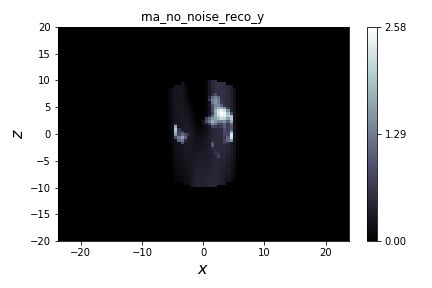
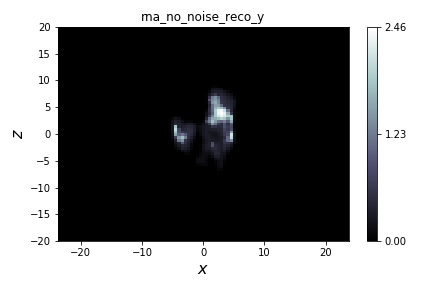
add recos of balls

Changed region(s): [[0.3912, 0.2812, 0.5718, 0.6562], [0.4815, 0.2812, 0.5718, 0.4375], [0.9028, 0.0625, 0.9329, 0.125]]

diff --git a/odl/contrib/etomo/examples/odlworkshop/kaczmarz/balls_dose_5000.py b/odl/contrib/etomo/examples/odlworkshop/kaczmarz/balls_dose_5000.py
@@ -10,8 +10,8 @@ from odl.contrib import etomo
 from odl.contrib.mrc import FileReaderMRC
 
 # Read phantom and data.
-dir_path = os.path.abspath('/home/zickert/TEM_reco_project/Data/One_particle_RNA/odlworkshop/No_noise')
-file_path_phantom = os.path.join(dir_path, 'rna_phantom.mrc')
+dir_path = os.path.abspath('/home/zickert/TEM_reco_project/Data/Balls/odlworkshop/gain_5000')
+file_path_phantom = os.path.join(dir_path, 'balls_phantom.mrc')
 file_path_tiltseries = os.path.join(dir_path, 'tiltseries.mrc')
 
 with FileReaderMRC(file_path_phantom) as phantom_reader:
@@ -36,8 +36,8 @@ sigma = e_mass * e_charge / (wave_number * planck_bar ** 2)
 abs_phase_ratio = 0.1
 magic_factor = 1
 obj_magnitude = magic_factor * sigma / rescale_factor
-regpar = 1e-3
-gamma_H1 = 0.0
+regpar = 2e3
+gamma_H1 = 0.9
 num_angles = 61
 num_angles_per_block = 1
 num_cycles = 3
@@ -58,18 +58,21 @@ defocus = 3e-6  # m
 det_size = 16e-6  # m
 
 # Reconstruction space: discretized functions on a cuboid
-reco_space = odl.uniform_discr(min_pt=[-rescale_factor*95e-9/4,
-                                       -rescale_factor*100e-9/4,
-                                       -rescale_factor*80e-9/4],
-                               max_pt=[rescale_factor*95e-9/4,
-                                       rescale_factor*100e-9/4,
-                                       rescale_factor*80e-9/4],
-                               shape=[95, 100, 80], dtype='float64')
+reco_space = odl.uniform_discr(min_pt=[-rescale_factor*210e-9/4,
+                                       -rescale_factor*250e-9/4,
+                                       -rescale_factor*40e-9/4],
+                               max_pt=[rescale_factor*210e-9/4,
+                                       rescale_factor*250e-9/4,
+                                       rescale_factor*40e-9/4],
+                               shape=[210, 250, 40], dtype='float64')
 # Make a 3d single-axis parallel beam geometry with flat detector
 # Angles: uniformly spaced, n = 180, min = 0, max = pi
 angle_partition = odl.uniform_partition(-np.pi/3, np.pi/3, num_angles)
-detector_partition = odl.uniform_partition([-rescale_factor*det_size/M * 200/2] * 2,
-                                           [rescale_factor*det_size/M * 200/2] * 2, [200] * 2)
+detector_partition = odl.uniform_partition([-rescale_factor*det_size/M * 210/2,
+                                            -rescale_factor*det_size/M * 250/2],
+                                           [rescale_factor*det_size/M * 200/2,
+                                            rescale_factor*det_size/M * 250/2],
+                                            [210, 250])
 
 # The x-axis is the tilt-axis.
 geometry = odl.tomo.Parallel3dAxisGeometry(angle_partition, detector_partition,
@@ -122,8 +125,8 @@ data = etomo.buffer_correction(data)
 data_from_this_model = etomo.buffer_correction(data_from_this_model)
 
 # Plot corrected data
-data_from_this_model.show(coords=[0, [-2e1, 2e1], [-2e1, 2e1]])
-data.show(coords=[0, [-2e1, 2e1], [-2e1, 2e1]])
+data_from_this_model.show(coords=[0, None, None])
+data.show(coords=[0, None, None])
 
 # Renormalize data so that it matches "data_from_this_model"
 data *= np.mean(data_from_this_model.asarray())
@@ -145,7 +148,10 @@ F_post = etomo.make_imageFormationOp(ray_trafo_block.range, wave_number,
                                      obj_magnitude=obj_magnitude,
                                      abs_phase_ratio=abs_phase_ratio)
 
-F_pre = odl.MultiplyOperator(mask, reco_space, reco_space)
+#F_pre = odl.MultiplyOperator(mask, reco_space, reco_space)
+# we skip the mask for the Balls phantom
+F_pre = odl.IdentityOperator(reco_space)
+
 
 get_op = etomo.make_Op_blocks(kaczmarz_plan, ray_trafo, Op_pre=F_pre,
                               Op_post=F_post)
@@ -171,14 +177,14 @@ etomo.kaczmarz_SART_method(get_proj_op, reco, get_data, len(kaczmarz_plan),
 # etomo.plot_3d_ortho_slices(reco)
 
 # Save planes of reco (orthogonal to x,y and z axes)
-nn_reco_fig_x = reco.show(title='rna_no_noise_reco_x',
-                          coords=[0, None, None])
-nn_reco_fig_x.savefig('rna_no_noise_reco_x')
+dose_5000_reco_fig_x = reco.show(title='balls_dose_5000_reco_x',
+                                 coords=[0, None, None])
+dose_5000_reco_fig_x.savefig('balls_dose_5000_reco_x')
 
-nn_reco_fig_y = reco.show(title='rna_no_noise_reco_y',
-                          coords=[None, 0, None])
-nn_reco_fig_y.savefig('rna_no_noise_reco_y')
+dose_5000_reco_fig_y = reco.show(title='balls_dose_5000_reco_y',
+                                 coords=[None, 0, None])
+dose_5000_reco_fig_y.savefig('balls_dose_5000_reco_y')
 
-nn_reco_fig_z = reco.show(title='rna_no_noise_reco_z',
-                          coords=[None, None, 0])
-nn_reco_fig_z.savefig('rna_no_noise_reco_z')
+dose_5000_reco_fig_z = reco.show(title='balls_dose_5000_reco_z',
+                                 coords=[None, None, 0])
+dose_5000_reco_fig_z.savefig('balls_dose_5000_reco_z')

diff --git a/odl/contrib/etomo/examples/odlworkshop/kaczmarz/balls_No_noise.py b/odl/contrib/etomo/examples/odlworkshop/kaczmarz/balls_No_noise.py
@@ -10,8 +10,8 @@ from odl.contrib import etomo
 from odl.contrib.mrc import FileReaderMRC
 
 # Read phantom and data.
-dir_path = os.path.abspath('/home/zickert/TEM_reco_project/Data/One_particle_RNA/odlworkshop/No_noise')
-file_path_phantom = os.path.join(dir_path, 'rna_phantom.mrc')
+dir_path = os.path.abspath('/home/zickert/TEM_reco_project/Data/Balls/odlworkshop/No_noise')
+file_path_phantom = os.path.join(dir_path, 'balls_phantom.mrc')
 file_path_tiltseries = os.path.join(dir_path, 'tiltseries.mrc')
 
 with FileReaderMRC(file_path_phantom) as phantom_reader:
@@ -58,18 +58,21 @@ defocus = 3e-6  # m
 det_size = 16e-6  # m
 
 # Reconstruction space: discretized functions on a cuboid
-reco_space = odl.uniform_discr(min_pt=[-rescale_factor*95e-9/4,
-                                       -rescale_factor*100e-9/4,
-                                       -rescale_factor*80e-9/4],
-                               max_pt=[rescale_factor*95e-9/4,
-                                       rescale_factor*100e-9/4,
-                                       rescale_factor*80e-9/4],
-                               shape=[95, 100, 80], dtype='float64')
+reco_space = odl.uniform_discr(min_pt=[-rescale_factor*210e-9/4,
+                                       -rescale_factor*250e-9/4,
+                                       -rescale_factor*40e-9/4],
+                               max_pt=[rescale_factor*210e-9/4,
+                                       rescale_factor*250e-9/4,
+                                       rescale_factor*40e-9/4],
+                               shape=[210, 250, 40], dtype='float64')
 # Make a 3d single-axis parallel beam geometry with flat detector
 # Angles: uniformly spaced, n = 180, min = 0, max = pi
 angle_partition = odl.uniform_partition(-np.pi/3, np.pi/3, num_angles)
-detector_partition = odl.uniform_partition([-rescale_factor*det_size/M * 200/2] * 2,
-                                           [rescale_factor*det_size/M * 200/2] * 2, [200] * 2)
+detector_partition = odl.uniform_partition([-rescale_factor*det_size/M * 210/2,
+                                            -rescale_factor*det_size/M * 250/2],
+                                           [rescale_factor*det_size/M * 200/2,
+                                            rescale_factor*det_size/M * 250/2],
+                                            [210, 250])
 
 # The x-axis is the tilt-axis.
 geometry = odl.tomo.Parallel3dAxisGeometry(angle_partition, detector_partition,
@@ -122,8 +125,8 @@ data = etomo.buffer_correction(data)
 data_from_this_model = etomo.buffer_correction(data_from_this_model)
 
 # Plot corrected data
-data_from_this_model.show(coords=[0, [-2e1, 2e1], [-2e1, 2e1]])
-data.show(coords=[0, [-2e1, 2e1], [-2e1, 2e1]])
+data_from_this_model.show(coords=[0, None, None])
+data.show(coords=[0, None, None])
 
 # Renormalize data so that it matches "data_from_this_model"
 data *= np.mean(data_from_this_model.asarray())
@@ -145,7 +148,10 @@ F_post = etomo.make_imageFormationOp(ray_trafo_block.range, wave_number,
                                      obj_magnitude=obj_magnitude,
                                      abs_phase_ratio=abs_phase_ratio)
 
-F_pre = odl.MultiplyOperator(mask, reco_space, reco_space)
+#F_pre = odl.MultiplyOperator(mask, reco_space, reco_space)
+# we skip the mask for the Balls phantom
+F_pre = odl.IdentityOperator(reco_space)
+
 
 get_op = etomo.make_Op_blocks(kaczmarz_plan, ray_trafo, Op_pre=F_pre,
                               Op_post=F_post)
@@ -171,14 +177,14 @@ etomo.kaczmarz_SART_method(get_proj_op, reco, get_data, len(kaczmarz_plan),
 # etomo.plot_3d_ortho_slices(reco)
 
 # Save planes of reco (orthogonal to x,y and z axes)
-nn_reco_fig_x = reco.show(title='rna_no_noise_reco_x',
+nn_reco_fig_x = reco.show(title='balls_no_noise_reco_x',
                           coords=[0, None, None])
-nn_reco_fig_x.savefig('rna_no_noise_reco_x')
+nn_reco_fig_x.savefig('balls_no_noise_reco_x')
 
-nn_reco_fig_y = reco.show(title='rna_no_noise_reco_y',
+nn_reco_fig_y = reco.show(title='balls_no_noise_reco_y',
                           coords=[None, 0, None])
-nn_reco_fig_y.savefig('rna_no_noise_reco_y')
+nn_reco_fig_y.savefig('balls_no_noise_reco_y')
 
-nn_reco_fig_z = reco.show(title='rna_no_noise_reco_z',
+nn_reco_fig_z = reco.show(title='balls_no_noise_reco_z',
                           coords=[None, None, 0])
-nn_reco_fig_z.savefig('rna_no_noise_reco_z')
+nn_reco_fig_z.savefig('balls_no_noise_reco_z')
